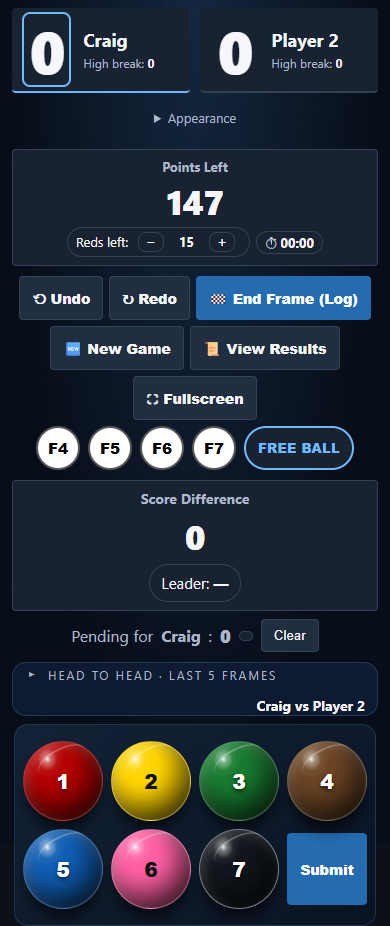
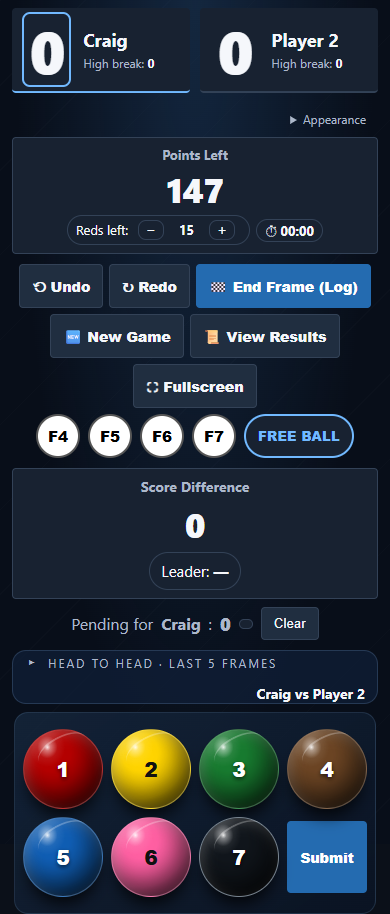
Compact Classic player panels and Appearance menu

diff --git a/index.html b/index.html
@@ -218,6 +218,19 @@ html[data-theme]:not([data-theme="classic"]) .btn.danger { background:#2a1010; b
 <style data-dramatic-skins>
 /* Polished resin balls and illuminated baize; Classic remains the baseline. */
 html:not([data-theme]) .headToHead,html[data-theme="classic"] .headToHead {display:none;}
+/* A small labelled menu retains a comfortable touch target without a full row. */
+.appearance {position:relative;align-self:flex-end;margin:0 12px;height:32px;font-size:12px;z-index:20;}
+.appearance summary {min-height:32px;padding:6px 10px;line-height:20px;}
+.appearance[open] label {position:absolute;right:0;top:32px;background:var(--panel);border:1px solid var(--muted);border-radius:8px;box-shadow:0 6px 20px #0008;white-space:nowrap;}
+html[data-theme="broadcast"] .appearance {margin:0 12px;}
+html[data-theme="broadcast"] .appearance summary {padding:6px 10px;}
+html[data-theme="classic"] .players {gap:10px;padding:8px 12px;}
+html[data-theme="classic"] .player {display:grid;grid-template-columns:auto minmax(0,1fr);grid-template-rows:auto auto;column-gap:16px;align-items:center;min-height:0;padding:10px 14px;}
+html[data-theme="classic"] .player .score {grid-column:1;grid-row:1/3;font-size:clamp(40px,7dvh,64px);margin:0;padding:4px 8px;}
+html[data-theme="classic"] .player.selected .score {outline:2px solid var(--outline);outline-offset:2px;padding:4px 8px;}
+html[data-theme="classic"] .player .name {grid-column:2;grid-row:1;align-self:end;font-size:clamp(18px,2vw,24px);overflow-wrap:anywhere;min-width:0;}
+html[data-theme="classic"] .player .meta {grid-column:2;grid-row:2;align-self:start;padding-top:3px;font-size:12px;}
+@media(max-width:600px){html[data-theme="classic"] .player{padding:8px;column-gap:10px;}html[data-theme="classic"] .player .score{font-size:40px;}html[data-theme="classic"] .player .meta{font-size:11px;}}
 html[data-theme="club"] body {
   background:radial-gradient(ellipse at 50% 12%,#38936755,transparent 65%),radial-gradient(ellipse at 50% 100%,#062b1c,transparent 80%),repeating-linear-gradient(115deg,#ffffff03 0 1px,transparent 1px 4px),#081610;
   background-attachment:fixed;
@@ -303,6 +316,20 @@ html[data-theme="broadcast"] .h2hGame span{margin-top:2px;font-size:11px;}
 html[data-theme="broadcast"] .bottom{padding:4px;}
 html[data-theme="broadcast"] .ball{width:min(100%,56px);}
 }
+html[data-theme] .appearance summary {min-height:32px;padding:6px 10px;}
+html[data-theme="classic"] .ballRow {grid-template-columns:repeat(8,minmax(0,1fr));gap:8px;}
+html[data-theme="classic"] .ball {width:min(100%,clamp(48px,15dvh,112px));height:auto;aspect-ratio:1;}
+html[data-theme="classic"] .submit {min-width:0;min-height:44px;padding:12px 6px;}
+html[data-theme="classic"] .bottom {padding:10px 12px;}
+@media(min-width:601px) and (max-height:650px){
+html[data-theme="classic"] .middle{grid-template-columns:minmax(0,1fr) minmax(0,2.2fr) minmax(0,1fr);gap:6px;padding:2px 12px;}
+html[data-theme="classic"] .btnCol,html[data-theme="classic"] .btnRow{gap:6px;}
+html[data-theme="classic"] :is(.undoBtn,.redoBtn,.resetBtn,.logBtn,.resultsBtn){min-height:44px;padding:6px 8px;font-size:12px;}
+html[data-theme="classic"] .statCard{padding:8px;}
+html[data-theme="classic"] .statCard .big{font-size:28px;}
+html[data-theme="classic"] .ball{width:min(100%,64px);}
+}
+@media(max-width:600px){html[data-theme="classic"] .ballRow{grid-template-columns:repeat(4,minmax(0,1fr));}}
 
 </style>
 </head>

diff --git a/results.html b/results.html
@@ -124,6 +124,19 @@ html[data-theme]:not([data-theme="classic"]) .btn.danger { background:#2a1010; b
 <style data-dramatic-skins>
 /* Polished resin balls and illuminated baize; Classic remains the baseline. */
 html:not([data-theme]) .headToHead,html[data-theme="classic"] .headToHead {display:none;}
+/* A small labelled menu retains a comfortable touch target without a full row. */
+.appearance {position:relative;align-self:flex-end;margin:0 12px;height:32px;font-size:12px;z-index:20;}
+.appearance summary {min-height:32px;padding:6px 10px;line-height:20px;}
+.appearance[open] label {position:absolute;right:0;top:32px;background:var(--panel);border:1px solid var(--muted);border-radius:8px;box-shadow:0 6px 20px #0008;white-space:nowrap;}
+html[data-theme="broadcast"] .appearance {margin:0 12px;}
+html[data-theme="broadcast"] .appearance summary {padding:6px 10px;}
+html[data-theme="classic"] .players {gap:10px;padding:8px 12px;}
+html[data-theme="classic"] .player {display:grid;grid-template-columns:auto minmax(0,1fr);grid-template-rows:auto auto;column-gap:16px;align-items:center;min-height:0;padding:10px 14px;}
+html[data-theme="classic"] .player .score {grid-column:1;grid-row:1/3;font-size:clamp(40px,7dvh,64px);margin:0;padding:4px 8px;}
+html[data-theme="classic"] .player.selected .score {outline:2px solid var(--outline);outline-offset:2px;padding:4px 8px;}
+html[data-theme="classic"] .player .name {grid-column:2;grid-row:1;align-self:end;font-size:clamp(18px,2vw,24px);overflow-wrap:anywhere;min-width:0;}
+html[data-theme="classic"] .player .meta {grid-column:2;grid-row:2;align-self:start;padding-top:3px;font-size:12px;}
+@media(max-width:600px){html[data-theme="classic"] .player{padding:8px;column-gap:10px;}html[data-theme="classic"] .player .score{font-size:40px;}html[data-theme="classic"] .player .meta{font-size:11px;}}
 html[data-theme="club"] body {
   background:radial-gradient(ellipse at 50% 12%,#38936755,transparent 65%),radial-gradient(ellipse at 50% 100%,#062b1c,transparent 80%),repeating-linear-gradient(115deg,#ffffff03 0 1px,transparent 1px 4px),#081610;
   background-attachment:fixed;
@@ -209,6 +222,20 @@ html[data-theme="broadcast"] .h2hGame span{margin-top:2px;font-size:11px;}
 html[data-theme="broadcast"] .bottom{padding:4px;}
 html[data-theme="broadcast"] .ball{width:min(100%,56px);}
 }
+html[data-theme] .appearance summary {min-height:32px;padding:6px 10px;}
+html[data-theme="classic"] .ballRow {grid-template-columns:repeat(8,minmax(0,1fr));gap:8px;}
+html[data-theme="classic"] .ball {width:min(100%,clamp(48px,15dvh,112px));height:auto;aspect-ratio:1;}
+html[data-theme="classic"] .submit {min-width:0;min-height:44px;padding:12px 6px;}
+html[data-theme="classic"] .bottom {padding:10px 12px;}
+@media(min-width:601px) and (max-height:650px){
+html[data-theme="classic"] .middle{grid-template-columns:minmax(0,1fr) minmax(0,2.2fr) minmax(0,1fr);gap:6px;padding:2px 12px;}
+html[data-theme="classic"] .btnCol,html[data-theme="classic"] .btnRow{gap:6px;}
+html[data-theme="classic"] :is(.undoBtn,.redoBtn,.resetBtn,.logBtn,.resultsBtn){min-height:44px;padding:6px 8px;font-size:12px;}
+html[data-theme="classic"] .statCard{padding:8px;}
+html[data-theme="classic"] .statCard .big{font-size:28px;}
+html[data-theme="classic"] .ball{width:min(100%,64px);}
+}
+@media(max-width:600px){html[data-theme="classic"] .ballRow{grid-template-columns:repeat(4,minmax(0,1fr));}}
 
 </style>
 </head>

diff --git a/review/dramatic.css b/review/dramatic.css
@@ -1,5 +1,18 @@
 /* Polished resin balls and illuminated baize; Classic remains the baseline. */
 html:not([data-theme]) .headToHead,html[data-theme="classic"] .headToHead {display:none;}
+/* A small labelled menu retains a comfortable touch target without a full row. */
+.appearance {position:relative;align-self:flex-end;margin:0 12px;height:32px;font-size:12px;z-index:20;}
+.appearance summary {min-height:32px;padding:6px 10px;line-height:20px;}
+.appearance[open] label {position:absolute;right:0;top:32px;background:var(--panel);border:1px solid var(--muted);border-radius:8px;box-shadow:0 6px 20px #0008;white-space:nowrap;}
+html[data-theme="broadcast"] .appearance {margin:0 12px;}
+html[data-theme="broadcast"] .appearance summary {padding:6px 10px;}
+html[data-theme="classic"] .players {gap:10px;padding:8px 12px;}
+html[data-theme="classic"] .player {display:grid;grid-template-columns:auto minmax(0,1fr);grid-template-rows:auto auto;column-gap:16px;align-items:center;min-height:0;padding:10px 14px;}
+html[data-theme="classic"] .player .score {grid-column:1;grid-row:1/3;font-size:clamp(40px,7dvh,64px);margin:0;padding:4px 8px;}
+html[data-theme="classic"] .player.selected .score {outline:2px solid var(--outline);outline-offset:2px;padding:4px 8px;}
+html[data-theme="classic"] .player .name {grid-column:2;grid-row:1;align-self:end;font-size:clamp(18px,2vw,24px);overflow-wrap:anywhere;min-width:0;}
+html[data-theme="classic"] .player .meta {grid-column:2;grid-row:2;align-self:start;padding-top:3px;font-size:12px;}
+@media(max-width:600px){html[data-theme="classic"] .player{padding:8px;column-gap:10px;}html[data-theme="classic"] .player .score{font-size:40px;}html[data-theme="classic"] .player .meta{font-size:11px;}}
 html[data-theme="club"] body {
   background:radial-gradient(ellipse at 50% 12%,#38936755,transparent 65%),radial-gradient(ellipse at 50% 100%,#062b1c,transparent 80%),repeating-linear-gradient(115deg,#ffffff03 0 1px,transparent 1px 4px),#081610;
   background-attachment:fixed;
@@ -85,3 +98,17 @@ html[data-theme="broadcast"] .h2hGame span{margin-top:2px;font-size:11px;}
 html[data-theme="broadcast"] .bottom{padding:4px;}
 html[data-theme="broadcast"] .ball{width:min(100%,56px);}
 }
+html[data-theme] .appearance summary {min-height:32px;padding:6px 10px;}
+html[data-theme="classic"] .ballRow {grid-template-columns:repeat(8,minmax(0,1fr));gap:8px;}
+html[data-theme="classic"] .ball {width:min(100%,clamp(48px,15dvh,112px));height:auto;aspect-ratio:1;}
+html[data-theme="classic"] .submit {min-width:0;min-height:44px;padding:12px 6px;}
+html[data-theme="classic"] .bottom {padding:10px 12px;}
+@media(min-width:601px) and (max-height:650px){
+html[data-theme="classic"] .middle{grid-template-columns:minmax(0,1fr) minmax(0,2.2fr) minmax(0,1fr);gap:6px;padding:2px 12px;}
+html[data-theme="classic"] .btnCol,html[data-theme="classic"] .btnRow{gap:6px;}
+html[data-theme="classic"] :is(.undoBtn,.redoBtn,.resetBtn,.logBtn,.resultsBtn){min-height:44px;padding:6px 8px;font-size:12px;}
+html[data-theme="classic"] .statCard{padding:8px;}
+html[data-theme="classic"] .statCard .big{font-size:28px;}
+html[data-theme="classic"] .ball{width:min(100%,64px);}
+}
+@media(max-width:600px){html[data-theme="classic"] .ballRow{grid-template-columns:repeat(4,minmax(0,1fr));}}
